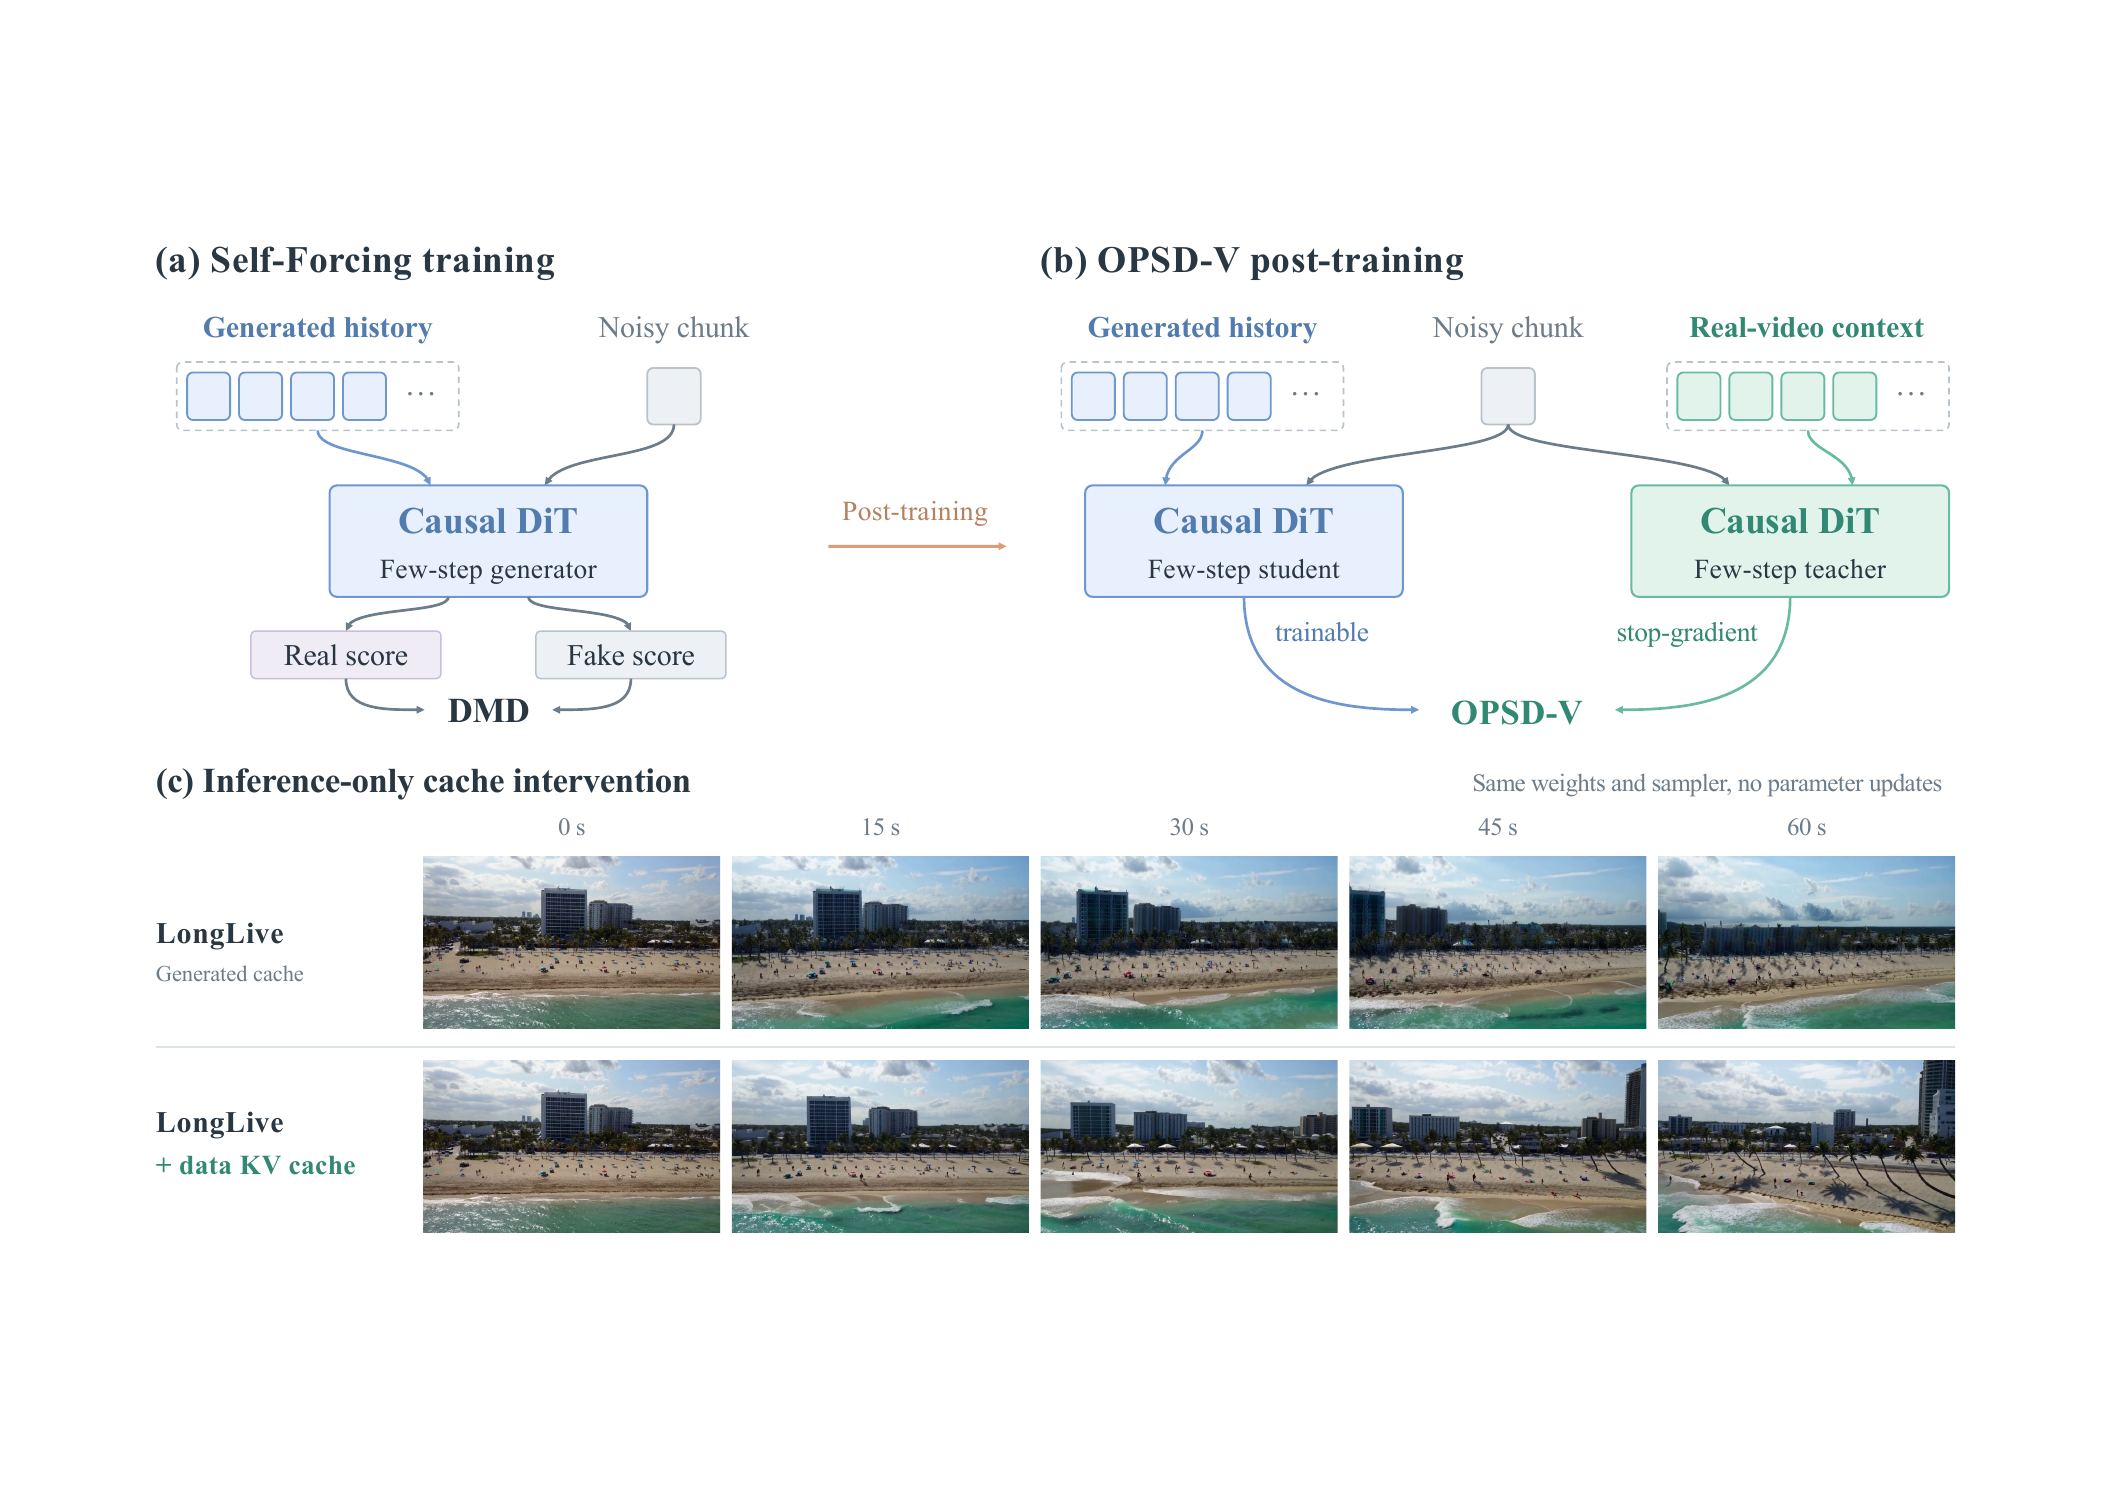
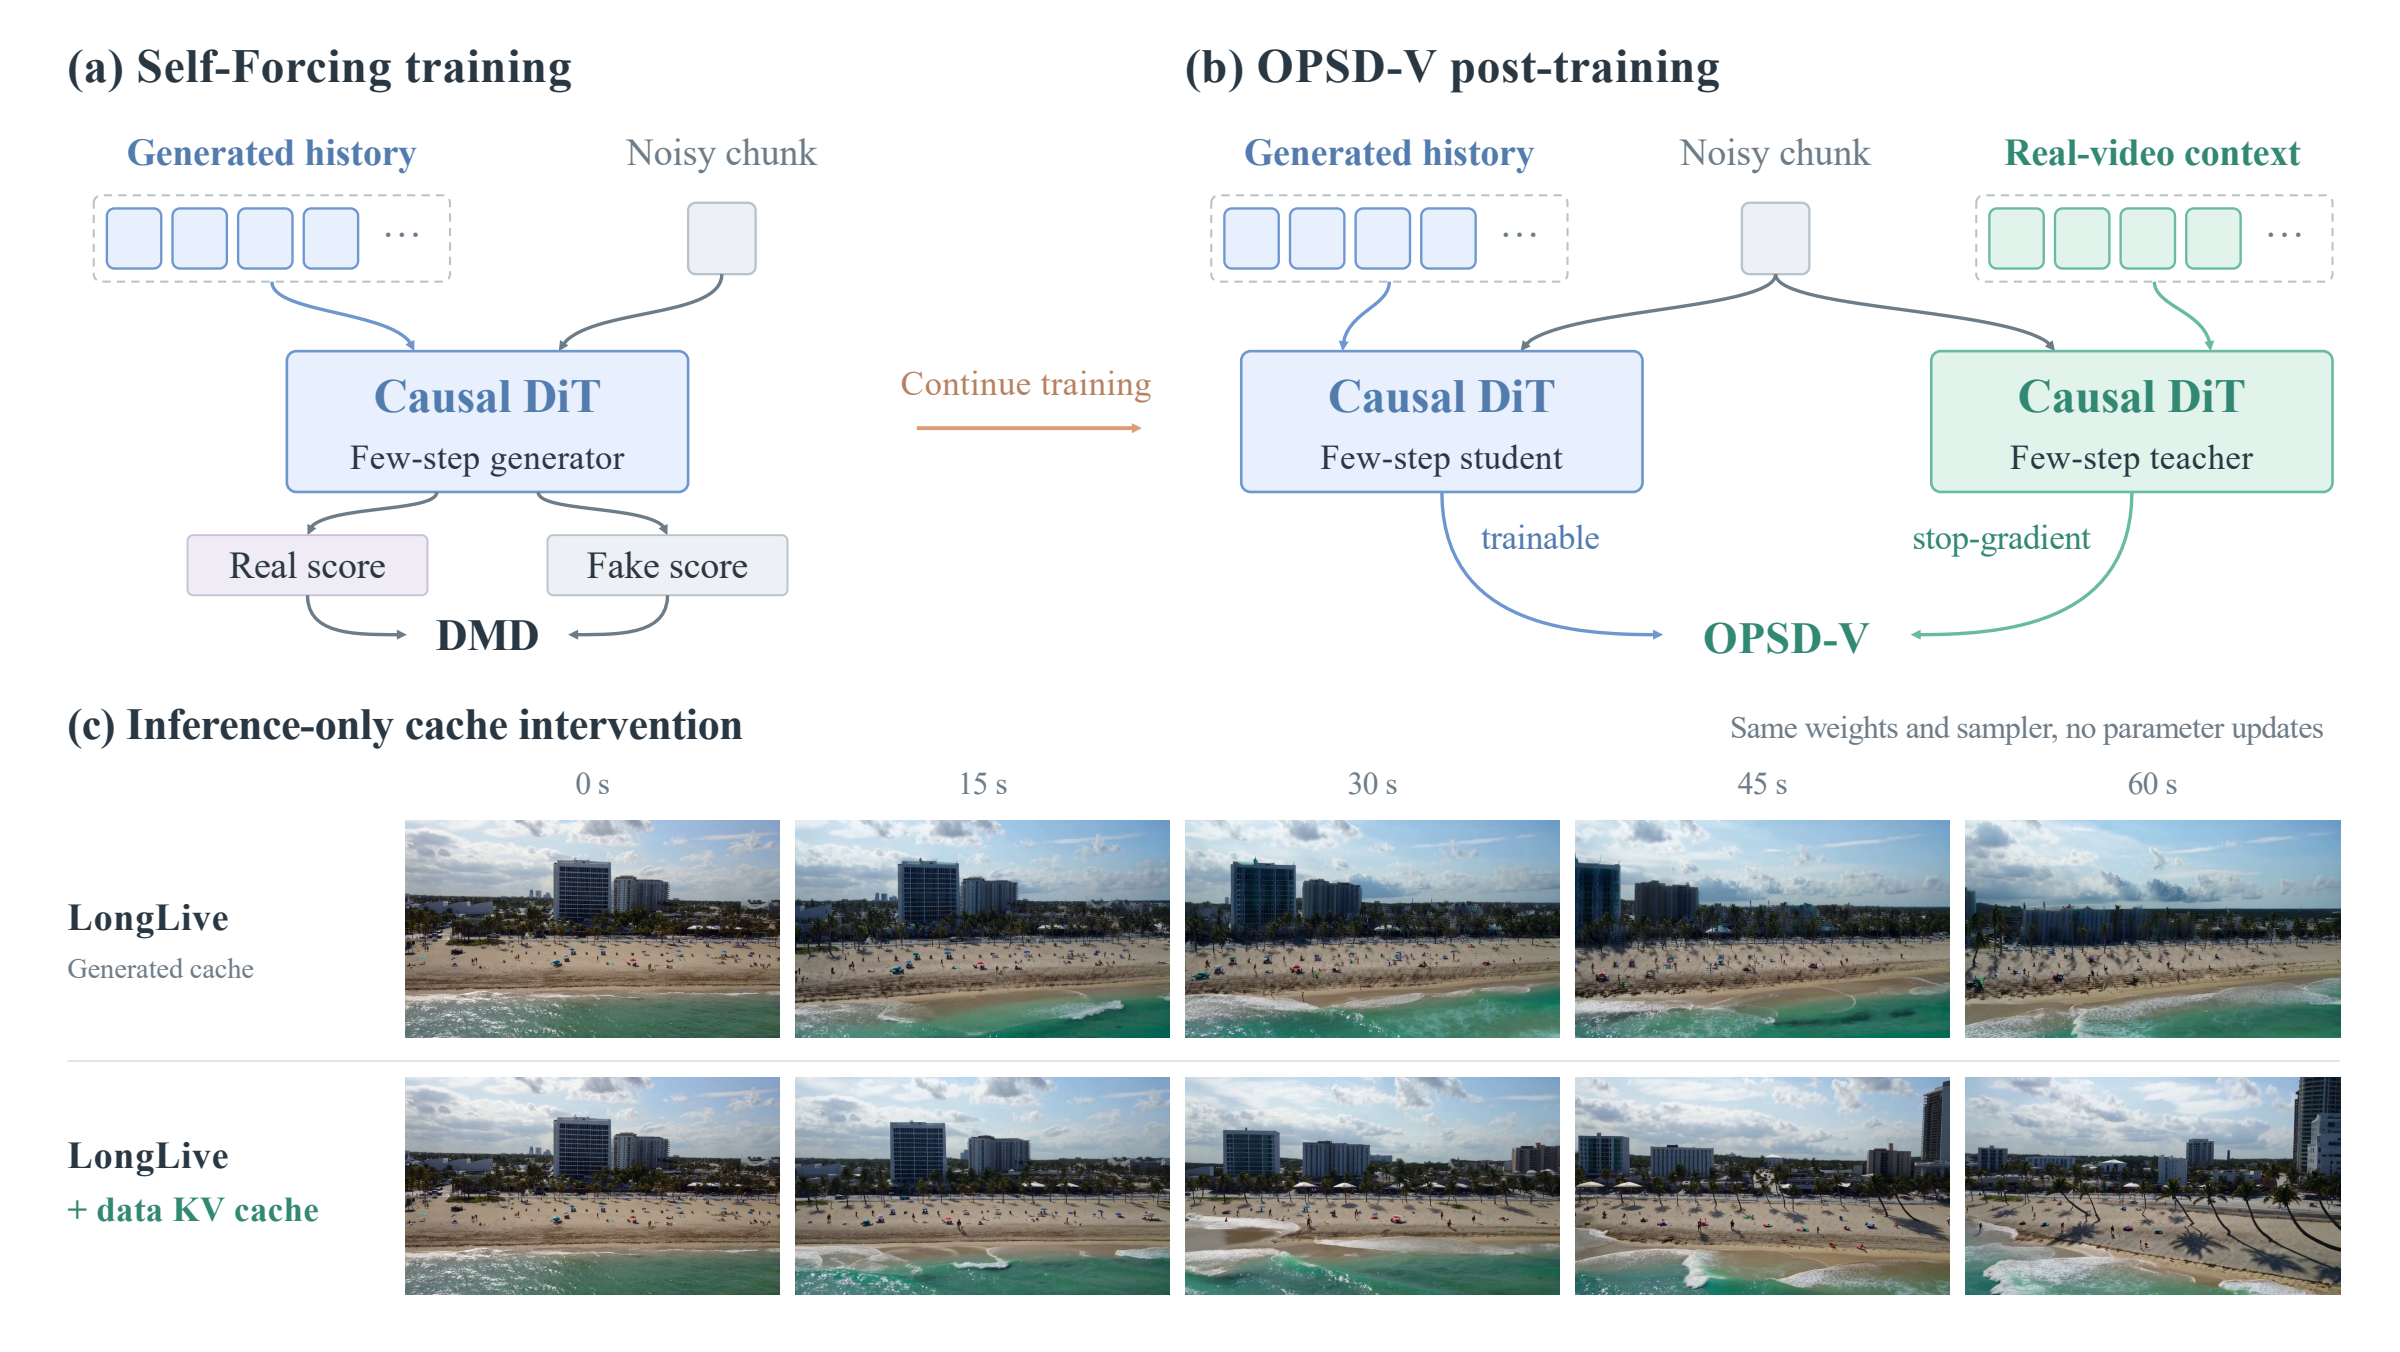
Sync project figures with the paper

diff --git a/docs/index.html b/docs/index.html
@@ -46,7 +46,7 @@
     <section id="motivation" class="section">
       <div class="section-heading"><div><p class="eyebrow">02 / Motivation</p><h2>Inference-Time Cache Intervention</h2></div></div>
       <p class="lead">To examine how cached history affects long-horizon generation, we provide real-video context to the original LongLive model at inference, before any OPSD-V post-training.</p>
-      <figure class="paper-figure"><a href="assets/figures/motivation.png" target="_blank" rel="noopener" aria-label="Open motivation figure at full resolution"><img src="assets/figures/motivation.png" alt="Motivation for OPSD-V: the student uses generated temporal history while real-video context supplies a cleaner teacher cache. Below, LongLive rollouts compare generated and data context." loading="lazy"></a></figure>
+      <figure class="paper-figure"><a href="assets/figures/motivation.png?v=paper-20260926" target="_blank" rel="noopener" aria-label="Open motivation figure at full resolution"><img src="assets/figures/motivation.png?v=paper-20260926" alt="Motivation for OPSD-V: the student uses generated temporal history while real-video context supplies a cleaner teacher cache. Below, LongLive rollouts compare generated and data context." loading="lazy"></a></figure>
       <div class="subsection-heading"><h3>LongLive Before Post-Training</h3><label class="select-label">Example <select id="motivation-select" aria-label="Motivation example"></select></label></div>
       <p class="experiment-description"><strong>Experimental setup.</strong> Both rollouts initialize their KV caches with the same real-video first chunk. The baseline then builds its history from generated chunks. In the intervention, older cached history is replaced with KV features computed from the corresponding real-video chunks, while the latest model-generated chunk is retained for autoregressive continuation. Model parameters and the four-step sampler remain unchanged. The source video is shown as a reference.</p>
       <div class="featured-navigation"><p id="motivation-count" aria-live="polite"></p></div>
@@ -61,7 +61,7 @@
     <section id="method" class="section">
       <div class="section-heading"><div><p class="eyebrow">03 / Method</p><h2>Method Overview</h2></div></div>
       <p class="lead">OPSD-V is a cache-aware on-policy self-distillation framework for few-step autoregressive video generators. Real long videos provide privileged temporal context for an exponential-moving-average (EMA) teacher that provides velocity targets at the student’s own noisy rollout states.</p>
-      <figure class="paper-figure"><a href="assets/figures/pipeline.png" target="_blank" rel="noopener" aria-label="Open method figure at full resolution"><img src="assets/figures/pipeline.png" alt="OPSD-V pipeline showing the student rollout, teacher with real-video temporal context, and velocity matching at every denoising step." loading="lazy"></a></figure>
+      <figure class="paper-figure"><a href="assets/figures/pipeline.png?v=paper-20260926" target="_blank" rel="noopener" aria-label="Open method figure at full resolution"><img src="assets/figures/pipeline.png?v=paper-20260926" alt="OPSD-V pipeline showing the student rollout, teacher with real-video temporal context, and velocity matching at every denoising step." loading="lazy"></a></figure>
       <div class="method-steps"><article><span>01</span><h3>Student On-Policy Rollout</h3><p>The student and teacher use the same real first chunk as an attention sink. The student then follows the original four-step sampler and writes its generated chunks into its own KV cache.</p></article><article><span>02</span><h3>Real-Video Teacher Cache</h3><p>The teacher evaluates the same student noisy states using older real-video history. Its latest cache chunk is its own clean estimate from the preceding chunk’s final student noisy state.</p></article><article><span>03</span><h3>Dense Denoising-Level Objective</h3><p>Velocity matching supervises all four denoising steps from chunk 8 onward. Per-step backward limits memory use during long-rollout training.</p></article></div>
       <p class="method-takeaway">At inference, the teacher is removed; the original four-step sampler and inference-time KV-cache mechanism remain unchanged.</p>
     </section>
